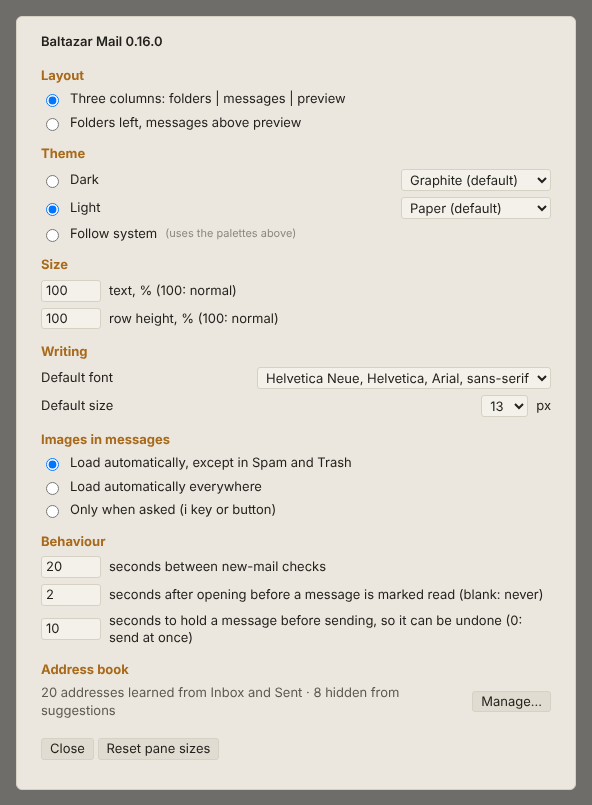
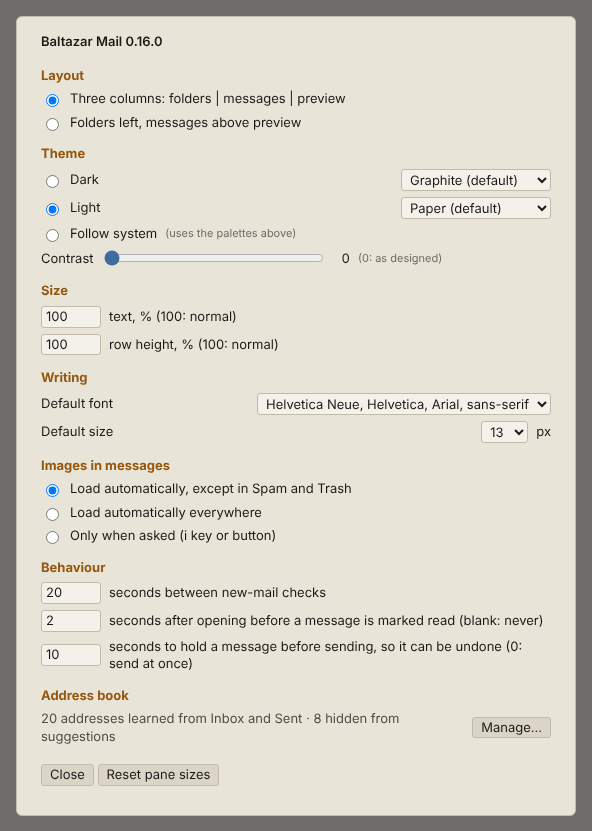
Redesign the palettes for variety and readable structure; add a contrast slider
Panels, borders and selection were nearly invisible and most light palettes were the same sand tone. Each palette now has its own hue, and structural colours are derived from minimum contrasts, so every palette stays readable. The 0 to 10 contrast slider strengthens all of them evenly for people who want more.

diff --git a/ext/themes.js b/ext/themes.js
@@ -1,51 +1,134 @@
-// Palettes mapped onto the UI's colour roles. Sources: Solarized (ethanschoonover.com/solarized),
-// Gruvbox (github.com/morhetz/gruvbox), Catppuccin (catppuccin.com/palette), Nord (nordtheme.com).
-// Roles: bg page, bg2 chrome, bg3 hover, fg text, fg2 secondary, fg3 hints, line borders,
-// sel selected row, selLine focus ring, accent stars/brand, unread bold text, link links.
+// Palettes mapped onto the UI's colour roles, one per hue, mostly in light and dark pairs.
+// Solarized Dark (ethanschoonover.com/solarized) and Gruvbox Dark (github.com/morhetz/gruvbox) are
+// as published; the others are ours.
+// Roles: bg page, bg2 chrome, bg3 hover and buttons, fg text, fg2 secondary, fg3 hints, line
+// borders, sel selected row, selLine focus ring, accent stars/brand, unread bold text, link links.
+// bg3 and line are optional: without them they are derived from bg2.
 
 export const THEMES = {
   dark: { name: "Graphite (default)", dark: true,
     bg: "#15181c", bg2: "#1c2026", bg3: "#242a31", fg: "#d8d4c8", fg2: "#9a968c", fg3: "#6c6962",
     line: "#2c333b", sel: "#2f3a48", selLine: "#4f6a8a", accent: "#d9a441", unread: "#f0ece0", link: "#7fb3e0" },
-  light: { name: "Paper (default)", dark: false,
-    bg: "#f4f1ea", bg2: "#ebe7de", bg3: "#e1dcd1", fg: "#23211d", fg2: "#5c594f", fg3: "#8a877d",
-    line: "#d6d1c5", sel: "#d9e2ee", selLine: "#7f9bbd", accent: "#a8691a", unread: "#000000", link: "#1c5b9c" },
+  forest: { name: "Forest", dark: true,
+    bg: "#101a14", bg2: "#17251c", fg: "#d3e4d7", fg2: "#a0b8a6", fg3: "#7d9584",
+    sel: "#224a31", selLine: "#6fd39a", accent: "#e8b45a", unread: "#effaf2", link: "#6fd39a" },
   solarizedDark: { name: "Solarized Dark", dark: true,
     bg: "#002b36", bg2: "#073642", bg3: "#0b4150", fg: "#93a1a1", fg2: "#839496", fg3: "#586e75",
     line: "#0b3d49", sel: "#0e4b5c", selLine: "#268bd2", accent: "#b58900", unread: "#eee8d5", link: "#268bd2" },
-  solarizedLight: { name: "Solarized Light", dark: false,
-    bg: "#fdf6e3", bg2: "#eee8d5", bg3: "#e6dec6", fg: "#586e75", fg2: "#657b83", fg3: "#93a1a1",
-    line: "#e0d8c0", sel: "#d8e4e6", selLine: "#268bd2", accent: "#b58900", unread: "#073642", link: "#268bd2" },
+  midnight: { name: "Midnight", dark: true,
+    bg: "#0b1121", bg2: "#121b33", fg: "#d6e0f7", fg2: "#a1aecb", fg3: "#7e8bab",
+    sel: "#1f3568", selLine: "#7aa2ff", accent: "#ff9e64", unread: "#f2f5ff", link: "#7aa2ff" },
+  plum: { name: "Plum", dark: true,
+    bg: "#1a1123", bg2: "#251831", fg: "#e9dcf3", fg2: "#bba6cc", fg3: "#9883a9",
+    sel: "#45275f", selLine: "#c79bff", accent: "#5fd3bc", unread: "#fbf4ff", link: "#c79bff" },
+  merlot: { name: "Merlot", dark: true,
+    bg: "#1c0e12", bg2: "#29151b", fg: "#f1dce1", fg2: "#c7a3ad", fg3: "#a07f88",
+    sel: "#55202f", selLine: "#ff8fab", accent: "#f2c46d", unread: "#fff2f5", link: "#ff8fab" },
   gruvboxDark: { name: "Gruvbox Dark", dark: true,
     bg: "#282828", bg2: "#32302f", bg3: "#3c3836", fg: "#ebdbb2", fg2: "#a89984", fg3: "#7c6f64",
     line: "#3c3836", sel: "#504945", selLine: "#83a598", accent: "#fabd2f", unread: "#fbf1c7", link: "#83a598" },
-  gruvboxLight: { name: "Gruvbox Light", dark: false,
-    bg: "#fbf1c7", bg2: "#f2e5bc", bg3: "#ebdbb2", fg: "#3c3836", fg2: "#665c54", fg3: "#928374",
-    line: "#d5c4a1", sel: "#d5c4a1", selLine: "#458588", accent: "#b57614", unread: "#282828", link: "#076678" },
-  catppuccinMocha: { name: "Catppuccin Mocha", dark: true,
-    bg: "#1e1e2e", bg2: "#181825", bg3: "#313244", fg: "#cdd6f4", fg2: "#a6adc8", fg3: "#6c7086",
-    line: "#313244", sel: "#45475a", selLine: "#89b4fa", accent: "#f9e2af", unread: "#e8ecff", link: "#89b4fa" },
-  catppuccinLatte: { name: "Catppuccin Latte", dark: false,
-    bg: "#eff1f5", bg2: "#e6e9ef", bg3: "#dce0e8", fg: "#4c4f69", fg2: "#6c6f85", fg3: "#9ca0b0",
-    line: "#ccd0da", sel: "#ccd0da", selLine: "#1e66f5", accent: "#df8e1d", unread: "#2a2d45", link: "#1e66f5" },
-  nord: { name: "Nord", dark: true,
-    bg: "#2e3440", bg2: "#3b4252", bg3: "#434c5e", fg: "#d8dee9", fg2: "#9aa5b8", fg3: "#7b88a1",
-    line: "#3b4252", sel: "#434c5e", selLine: "#88c0d0", accent: "#ebcb8b", unread: "#eceff4", link: "#88c0d0" },
-  nordLight: { name: "Nord Light", dark: false,
-    bg: "#eceff4", bg2: "#e5e9f0", bg3: "#d8dee9", fg: "#2e3440", fg2: "#4c566a", fg3: "#7b88a1",
-    line: "#d8dee9", sel: "#d8dee9", selLine: "#5e81ac", accent: "#d08770", unread: "#242933", link: "#5e81ac" },
+  // Black everywhere and white text; only the selected row, hover and borders are grey.
+  monoDark: { name: "Monochrome Dark", dark: true, keep: ["bg2"],
+    bg: "#000000", bg2: "#000000", bg3: "#1c1c1c", fg: "#ffffff", fg2: "#ffffff", fg3: "#ffffff",
+    line: "#444444", sel: "#333333", selLine: "#ffffff", accent: "#ffffff", unread: "#ffffff", link: "#ffffff" },
+  light: { name: "Paper (default)", dark: false,
+    bg: "#f4f1ea", bg2: "#e9e4d8", bg3: "#ddd7c9", fg: "#1c1a17", fg2: "#4f4c44", fg3: "#6f6b62",
+    line: "#c9c2b2", sel: "#cfdcee", selLine: "#3f6b9e", accent: "#94570e", unread: "#000000", link: "#1c5b9c" },
+  slate: { name: "Slate", dark: false,
+    bg: "#f3f5f8", bg2: "#dfe4eb", fg: "#1a1f27", fg2: "#424a57", fg3: "#5d6574",
+    sel: "#c6d2e3", selLine: "#2b59c3", accent: "#c4410c", unread: "#080b10", link: "#2b59c3" },
+  sage: { name: "Sage", dark: false,
+    bg: "#f3f8f1", bg2: "#dceadb", fg: "#1b2a1e", fg2: "#415245", fg3: "#5b6d5f",
+    sel: "#bfdcc0", selLine: "#2e7048", accent: "#a3460f", unread: "#09140c", link: "#2e7048" },
+  lagoon: { name: "Lagoon", dark: false,
+    bg: "#f0f9f9", bg2: "#d4eded", fg: "#11282a", fg2: "#36535a", fg3: "#516e72",
+    sel: "#ade0e0", selLine: "#0a6e75", accent: "#c0344f", unread: "#061719", link: "#0a6e75" },
+  sky: { name: "Sky", dark: false,
+    bg: "#f2f7fe", bg2: "#dae7f8", fg: "#132033", fg2: "#394a63", fg3: "#53637c",
+    sel: "#bfd5f4", selLine: "#1f5fbf", accent: "#b65f00", unread: "#07101e", link: "#1f5fbf" },
+  lavender: { name: "Lavender", dark: false,
+    bg: "#f7f5fe", bg2: "#e6e0f8", fg: "#211a34", fg2: "#4a4065", fg3: "#62597e",
+    sel: "#d3c6f3", selLine: "#6a3fc0", accent: "#0f7a6c", unread: "#110c21", link: "#6a3fc0" },
+  rose: { name: "Rose", dark: false,
+    bg: "#fdf4f6", bg2: "#f5dde3", fg: "#33171e", fg2: "#5e3b44", fg3: "#78565f",
+    sel: "#efc3ce", selLine: "#ad2550", accent: "#7a4f00", unread: "#1f0a0f", link: "#ad2550" },
   // White everywhere and black text, including secondary text, stars and links; only the selected
-  // row and the hover highlight are grey, so the cursor stays visible.
-  mono: { name: "Monochrome", dark: false,
+  // row, hover and borders are grey, so the cursor stays visible.
+  mono: { name: "Monochrome", dark: false, keep: ["bg2"],
     bg: "#ffffff", bg2: "#ffffff", bg3: "#f2f2f2", fg: "#000000", fg2: "#000000", fg3: "#000000",
     line: "#cfcfcf", sel: "#e4e4e4", selLine: "#000000", accent: "#000000", unread: "#000000", link: "#000000" },
 };
 
+// Contrast is a level from 0 to 10. Level 0 and level 10 each have minimum WCAG contrast ratios
+// for every role (AT_MIN, AT_MAX): a palette's own colour is kept when it already reaches them;
+// otherwise it moves away from the surfaces it sits on, in its own direction, until it does. Text
+// is checked on the page and the panels (fg and unread also on the selected row); hover on the
+// page and panels; selection on both and against hover, so the cursor never looks like a hover.
+// Levels between mix each colour evenly from its level 0 to its level 10 version, so every step
+// changes the picture, not only the steps where a minimum overtakes the palette.
+export const CONTRAST_MAX = 10;
+export const AT_MIN = { panel: 1.12, hover: 1.15, selection: 1.3, selectionVsHover: 1.1, border: 1.5, focus: 3,
+  fg: 4.5, unread: 4.5, fg2: 3, fg3: 3, accent: 3, link: 3, onSelection: 4.5 };
+export const AT_MAX = { panel: 1.4, hover: 1.6, selection: 2, selectionVsHover: 1.2, border: 4.5, focus: 7,
+  fg: 18, unread: 21, fg2: 12, fg3: 9, accent: 6, link: 6, onSelection: 12 };
+export const clampContrast = v => Math.min(CONTRAST_MAX, Math.max(0, Math.round(Number(v) || 0)));
+
+const hex2 = (c, i) => parseInt(c.slice(i, i + 2), 16);
+const mix = (a, b, t) => "#" + [1, 3, 5].map(i => Math.round(hex2(a, i) * (1 - t) + hex2(b, i) * t).toString(16).padStart(2, "0")).join("");
+const lin = c => (c /= 255) <= 0.04045 ? c / 12.92 : ((c + 0.055) / 1.055) ** 2.4;
+const luminance = c => 0.2126 * lin(hex2(c, 1)) + 0.7152 * lin(hex2(c, 3)) + 0.0722 * lin(hex2(c, 5));
+export const ratio = (a, b) => { const [x, y] = [luminance(a), luminance(b)].sort((m, n) => n - m); return (x + 0.05) / (y + 0.05); };
+
+// Mix c toward each colour of `path` in turn, in 1% steps, until ok(c) holds; the last colour of
+// the path if it never does.
+function push(c, path, ok) {
+  for (const toward of [].concat(path)) {
+    for (let t = 0; t <= 1; t += 0.01) { const m = mix(c, toward, t); if (ok(m)) return m; }
+    c = toward;
+  }
+  return c;
+}
+const worst = (c, surfaces) => Math.min(...surfaces.map(s => ratio(c, s)));
+
+// The palette's colours with every role meeting the minimums T.
+function derive(p, T) {
+  const keep = new Set(p.keep || []), r = { ...p };
+  const ink = p.dark ? "#ffffff" : "#000000";
+  // Surfaces move away from the page toward the text side, or further out on the side they are on.
+  const away = c => luminance(c) > luminance(p.bg) === luminance(p.fg) > luminance(p.bg) ? p.fg : p.dark ? "#000000" : "#ffffff";
+  const raise = (k, from, toward, surfaces, min) => { if (!keep.has(k)) r[k] = push(from, toward, c => worst(c, surfaces) >= min); };
+  raise("bg2", p.bg2, away(p.bg2), [p.bg], T.panel);
+  // Hover and borders head for the text colour, then on to black or white if that is not enough.
+  raise("bg3", p.bg3 || r.bg2, [p.fg, ink], [p.bg, r.bg2], T.hover);
+  raise("line", p.line || r.bg2, [p.fg, ink], [p.bg, r.bg2], T.border);
+  if (!keep.has("sel")) r.sel = push(p.sel, p.link === ink ? p.fg : p.link,
+    c => worst(c, [p.bg, r.bg2]) >= T.selection && ratio(c, r.bg3) >= T.selectionVsHover);
+  raise("selLine", p.selLine, ink, [p.bg, r.bg2], T.focus);
+  // Text moves toward black or white; main and unread text also stay readable on the selected row.
+  for (const k of ["fg", "unread", "fg2", "fg3", "accent", "link"]) {
+    const onSel = k === "fg" || k === "unread";
+    if (!keep.has(k)) r[k] = push(p[k], ink, c => worst(c, [p.bg, r.bg2]) >= T[k] && (!onSel || ratio(c, r.sel) >= T.onSelection));
+  }
+  delete r.keep;
+  return r;
+}
+
 const VARS = { bg: "--bg", bg2: "--bg2", bg3: "--bg3", fg: "--fg", fg2: "--fg2", fg3: "--fg3", line: "--line",
   sel: "--sel", selLine: "--sel-line", accent: "--accent", unread: "--unread", link: "--link" };
 
-export function applyTheme(id) {
-  const t = THEMES[id] || THEMES.dark;
+const cache = new Map();
+export function roles(id, level = 0) {
+  const p = THEMES[id] || THEMES.light, n = clampContrast(level), key = (THEMES[id] ? id : "light") + "/" + n;
+  if (!cache.has(key)) {
+    const lo = derive(p, AT_MIN), hi = derive(p, AT_MAX), r = { ...lo };
+    for (const k of Object.keys(VARS)) r[k] = mix(lo[k], hi[k], n / CONTRAST_MAX);
+    cache.set(key, r);
+  }
+  return cache.get(key);
+}
+
+export function applyTheme(id, level = 0) {
+  const t = roles(id, level);
   const style = document.documentElement.style;
   for (const [k, v] of Object.entries(VARS)) style.setProperty(v, t[k]);
   document.documentElement.dataset.theme = t.dark ? "dark" : "light";

diff --git a/ext/mail.js b/ext/mail.js
@@ -1,5 +1,5 @@
 import * as api from "./api.js";
-import { THEMES, applyTheme } from "./themes.js";
+import { THEMES, applyTheme, clampContrast } from "./themes.js";
 import * as compose from "./compose.js";
 import * as contacts from "./contacts.js";
 import * as viewer from "./viewer.js";
@@ -14,7 +14,7 @@ const PAGE = 100;
 const DRAG_TYPE = "application/x-baltazar-mail-ids";
 
 // ---------- settings ----------
-const DEFAULTS = { layout: "vertical", theme: "light", darkTheme: "dark", lightTheme: "light", pollSec: 20, markReadSec: 2, undoSendSec: 10, composeHtml: true, composeFont: "Helvetica Neue, Helvetica, Arial, sans-serif", composeSize: 13, images: "safe", readerOriginal: false, textPct: 100, rowPct: 100, folderW: 230, listW: 460, listH: 40, expanded: [] };
+const DEFAULTS = { layout: "vertical", theme: "light", darkTheme: "dark", lightTheme: "light", contrast: 0, pollSec: 20, markReadSec: 2, undoSendSec: 10, composeHtml: true, composeFont: "Helvetica Neue, Helvetica, Arial, sans-serif", composeSize: 13, images: "safe", readerOriginal: false, textPct: 100, rowPct: 100, folderW: 230, listW: 460, listH: 40, expanded: [] };
 let settings = { ...DEFAULTS };
 
 async function loadSettings() {
@@ -23,6 +23,8 @@ async function loadSettings() {
   // Row height used to be pixels at the normal text size (22 px is 100%).
   if (stored.rowH && stored.rowPct == null) settings.rowPct = Math.min(150, Math.max(80, Math.round(stored.rowH / 22 * 20) * 5));
   delete settings.rowH;
+  // A palette that is gone (renamed or dropped in an update) falls back to the default.
+  for (const sel of ["darkTheme", "lightTheme"]) if (!THEMES[settings[sel]]) settings[sel] = DEFAULTS[sel];
   state.expanded = new Set(settings.expanded);
 }
 
@@ -39,7 +41,7 @@ const systemDark = matchMedia("(prefers-color-scheme: dark)");
 function applyLayout() {
   const mode = settings.theme === "system" ? (systemDark.matches ? "dark" : "light") : settings.theme;
   const wasDark = document.documentElement.dataset.theme === "dark";
-  applyTheme(mode === "dark" ? settings.darkTheme : settings.lightTheme);
+  applyTheme(mode === "dark" ? settings.darkTheme : settings.lightTheme, settings.contrast);
   syncDarkButton();
   if (wasDark !== darkApp() && currentBody && state.openId) showBody();
   $("app").classList.toggle("horizontal", settings.layout === "horizontal");
@@ -58,6 +60,8 @@ function applyLayout() {
 function syncSettingsForm() {
   $("darkTheme").value = settings.darkTheme;
   $("lightTheme").value = settings.lightTheme;
+  $("contrast").value = settings.contrast;
+  $("contrast-n").textContent = settings.contrast;
   for (const el of document.querySelectorAll("#settings input[type=radio]")) el.checked = settings[el.name] === el.value;
   $("poll").value = settings.pollSec;
   $("density").value = settings.rowPct;
@@ -1474,6 +1478,13 @@ function wireSettings() {
     el.innerHTML = Object.entries(THEMES).filter(([, t]) => t.dark === dark).map(([id, t]) => `<option value="${id}">${t.name}</option>`).join("");
     el.onchange = () => { settings[sel] = el.value; applySettings(); saveSettings(); };
   }
+  // The palette follows the slider while it moves; the setting is saved when it is let go.
+  $("contrast").oninput = () => {
+    settings.contrast = clampContrast($("contrast").value);
+    $("contrast-n").textContent = settings.contrast;
+    applyLayout();
+  };
+  $("contrast").onchange = () => { settings.contrast = clampContrast($("contrast").value); applySettings(); saveSettings(); };
   for (const el of document.querySelectorAll("#settings input[type=radio]"))
     el.onchange = () => { settings[el.name] = el.value; applySettings(); saveSettings(); };
   $("poll").onchange = () => { settings.pollSec = Math.max(5, Number($("poll").value) || 20); applySettings(); saveSettings(); };

diff --git a/tools/smoke.js b/tools/smoke.js
@@ -153,7 +153,8 @@ const folders = [
   await page.keyboard.press(",");
   await page.click('input[name=layout][value=horizontal]');
   await page.click('input[name=theme][value=light]');
-  await page.selectOption("#lightTheme", "solarizedLight");
+  await page.selectOption("#lightTheme", "sky");
+  await page.locator("#contrast").fill("7");
   await page.click("#settings-close");
   const box = await page.locator("#split2").boundingBox();
   await page.mouse.move(box.x + 10, box.y + 2); await page.mouse.down(); await page.mouse.move(box.x + 10, box.y + 150, { steps: 5 }); await page.mouse.up();
@@ -166,6 +167,18 @@ const folders = [
   const persisted = await page.evaluate(() => ({ layout: document.getElementById("app").className, theme: document.documentElement.dataset.theme, bg: getComputedStyle(document.documentElement).getPropertyValue("--bg"),
     folderW: getComputedStyle(document.documentElement).getPropertyValue("--folder-w"), listH: getComputedStyle(document.documentElement).getPropertyValue("--list-h") }));
   console.log("persisted", JSON.stringify(persisted));
+  // Contrast level and palette survive a reload; a palette id that no longer exists falls back to Paper.
+  const { roles } = await import(require("url").pathToFileURL(path.join(__dirname, "..", "ext", "themes.js")).href);
+  const cssVar = v => page.evaluate(v => getComputedStyle(document.documentElement).getPropertyValue(v).trim(), v);
+  const level7 = { line: await cssVar("--line"), contrast: await page.evaluate(async () => (await chrome.storage.local.get("settings")).settings.contrast), field: await page.locator("#contrast").inputValue(), shown: await page.locator("#contrast-n").textContent() };
+  await page.evaluate(() => { const s = JSON.parse(localStorage.getItem("l:settings")); s.lightTheme = "gone"; s.contrast = 0; localStorage.setItem("l:settings", JSON.stringify(s)); });
+  await page.reload();
+  await page.waitForSelector("#rows .row");
+  const stale = { bg: await cssVar("--bg"), line: await cssVar("--line"), choice: await page.locator("#lightTheme").inputValue() };
+  console.log("contrast", JSON.stringify({ level7, stale }));
+  const expectTheme = (cond, what) => { if (!cond) errors.push("assert: " + what); };
+  expectTheme(level7.contrast === 7 && level7.field === "7" && level7.shown === "7" && level7.line === roles("sky", 7).line && level7.line !== roles("sky", 0).line, "contrast 7 persists: " + JSON.stringify(level7));
+  expectTheme(stale.bg === roles("light").bg && stale.line === roles("light").line && stale.choice === "light", "missing palette falls back to Paper: " + JSON.stringify(stale));
   console.log(JSON.stringify({ rows, foldersShown, subject, frameHtml: frameHtml.slice(0, 80), hit, sentRows, helpVisible, errors }, null, 1));
   await browser.close();
   server.close();

diff --git a/ext/mail.css b/ext/mail.css
@@ -1,13 +1,14 @@
+/* Graphite and Paper at contrast 0 (themes.js) until applyTheme has run */
 :root {
-  --bg: #15181c; --bg2: #1c2026; --bg3: #242a31; --fg: #d8d4c8; --fg2: #9a968c; --fg3: #6c6962;
-  --line: #2c333b; --sel: #2f3a48; --sel-line: #4f6a8a; --accent: #d9a441; --unread: #f0ece0; --link: #7fb3e0;
+  --bg: #15181c; --bg2: #202429; --bg3: #292f36; --fg: #d8d4c8; --fg2: #9a968c; --fg3: #706e67;
+  --line: #3b4148; --sel: #2f3a48; --sel-line: #56708f; --accent: #d9a441; --unread: #f0ece0; --link: #7fb3e0;
   --font: ui-sans-serif, "Segoe UI", system-ui, sans-serif; --mono: ui-monospace, Consolas, monospace;
   --row-h: 22px; --fs: 13px; --fu: calc(var(--fs) / 13);
   --folder-w: 230px; --list-w: 460px; --list-h: 40%;
 }
 :root[data-theme="light"] {
-  --bg: #f4f1ea; --bg2: #ebe7de; --bg3: #e1dcd1; --fg: #23211d; --fg2: #5c594f; --fg3: #8a877d;
-  --line: #d6d1c5; --sel: #d9e2ee; --sel-line: #7f9bbd; --accent: #a8691a; --unread: #000; --link: #1c5b9c;
+  --bg: #f4f1ea; --bg2: #e9e4d8; --bg3: #dbd5c7; --fg: #1c1a17; --fg2: #4f4c44; --fg3: #6f6b62;
+  --line: #c2bbac; --sel: #b8cbe3; --sel-line: #3f6b9e; --accent: #94570e; --unread: #000000; --link: #1c5b9c;
 }
 * { box-sizing: border-box; }
 html, body { margin: 0; height: 100%; background: var(--bg); color: var(--fg); font: var(--fs)/1.35 var(--font); }
@@ -333,4 +334,7 @@ body.dragging iframe { pointer-events: none; }
 .theme-row { display: flex; align-items: center; gap: 8px; }
 .theme-row label { flex: 1; }
 .theme-row select { min-width: 150px; }
+.contrast-row { display: flex; align-items: center; gap: 8px; }
+.contrast-row input { flex: 1; max-width: 220px; accent-color: var(--sel-line); }
+.contrast-row output { width: 2ch; text-align: right; font-variant-numeric: tabular-nums; }
 .theme-note { color: var(--fg3); font-size: calc(11 * var(--fu)); }

diff --git a/tools/themeshots.js b/tools/themeshots.js
@@ -8,13 +8,12 @@ const tail = `
   await page.keyboard.press("j"); await page.keyboard.press("Enter");
   await page.waitForFunction(() => document.getElementById("r-subject").textContent.length > 0);
   await page.setViewportSize({ width: 1100, height: 520 });
-  const { THEMES } = await import(\`http://localhost:\${port}/themes.js\`).catch(() => ({ THEMES: null }));
-  const ids = ["dark","solarizedDark","gruvboxDark","catppuccinMocha","nord","light","solarizedLight","gruvboxLight","catppuccinLatte","nordLight"];
-  for (const id of ids) {
-    await page.evaluate(async (id) => {
-      const m = await import("./themes.js"); m.applyTheme(id);
-    }, id);
-    await page.screenshot({ path: path.join(__dirname, "..", "out", "shots", id + ".png") });
+  const ids = await page.evaluate(async () => Object.keys((await import("./themes.js")).THEMES));
+  for (const level of [0, 5, 10]) for (const id of ids) {
+    await page.evaluate(async ([id, level]) => {
+      const m = await import("./themes.js"); m.applyTheme(id, level);
+    }, [id, level]);
+    await page.screenshot({ path: path.join(__dirname, "..", "out", "shots", id + (level ? "-" + level : "") + ".png") });
   }
   await browser.close(); server.close();
 })().catch(e => { console.error(e); process.exit(1); });

diff --git a/ext/mail.html b/ext/mail.html
@@ -137,6 +137,7 @@
     <div class="theme-row"><label><input type="radio" name="theme" value="dark"> Dark</label><select id="darkTheme" title="Palette used in dark mode" aria-label="Dark palette"></select></div>
     <div class="theme-row"><label><input type="radio" name="theme" value="light"> Light</label><select id="lightTheme" title="Palette used in light mode" aria-label="Light palette"></select></div>
     <label><input type="radio" name="theme" value="system"> Follow system <span class="theme-note">(uses the palettes above)</span></label>
+    <div class="contrast-row" title="Strengthens borders, panels, selection and text in every palette"><label for="contrast">Contrast</label><input type="range" id="contrast" min="0" max="10" step="1"><output id="contrast-n" for="contrast">0</output><span class="theme-note">(0: as designed)</span></div>
     <b>Size</b>
     <label><input type="number" id="textpct" min="85" max="150" step="5" style="width:60px"> text, % (100: normal)</label>
     <label><input type="number" id="density" min="80" max="150" step="5" style="width:60px"> row height, % (100: normal)</label>

diff --git a/README.md b/README.md
@@ -8,7 +8,7 @@ Baltazar Mail is an independent project by [Baltazar Studios](https://baltazarst
 
 ## Features
 
-- **Reading:** three-column or stacked layout with resizable panes, eleven light and dark palettes (one of them plain black on white), one text size setting that scales the whole interface and the message, a Starred view across all folders, and remote images loaded automatically except in Spam and Trash. In a dark theme messages are darkened to match, keeping their colours' hues and leaving images alone; the ☀ button in the message header shows them in their original colours instead.
+- **Reading:** three-column or stacked layout with resizable panes, sixteen light and dark palettes, each in its own hue (two of them plain black and white), with adjustable contrast, one text size setting that scales the whole interface and the message, a Starred view across all folders, and remote images loaded automatically except in Spam and Trash. In a dark theme messages are darkened to match, keeping their colours' hues and leaving images alone; the ☀ button in the message header shows them in their original colours instead.
 - **Mailbox actions:** read/unread, star, archive, move, delete, spam and not spam, on one message or a selection, with multi-level undo and redo.
 - **Search:** scoped to the open folder and its subfolders, with matches in other folders listed below a divider. Words must all match; `AND`, `OR`, `NOT`, parentheses, quoted phrases and the fields `from:` `to:` `subject:` `has:attachment` `is:starred` `is:unread` `after:` `before:` refine it. The `?` in the search box explains the syntax.
 - **Writing:** new message, reply, reply all and forward (with the original's attachments), drafts saved automatically, rich-text or plain-text editing with fonts, sizes and colours, pasted or dropped inline images, attachments, and undo-send.
